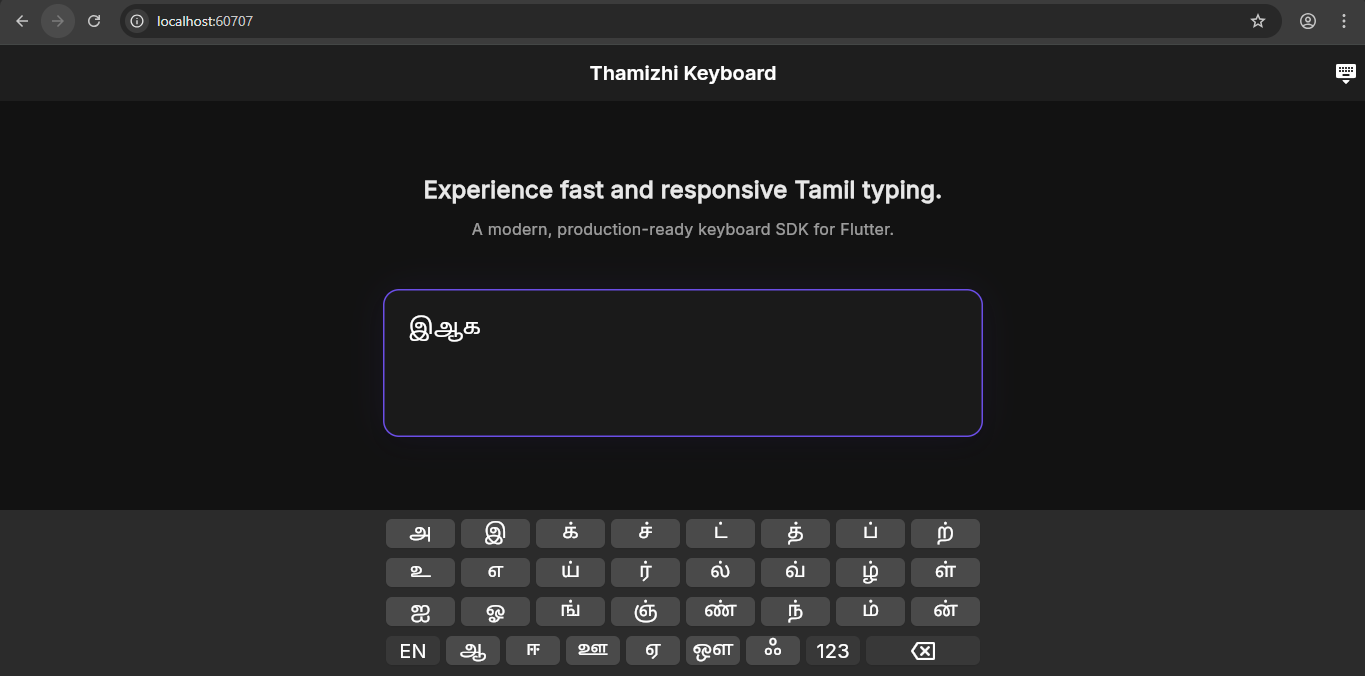
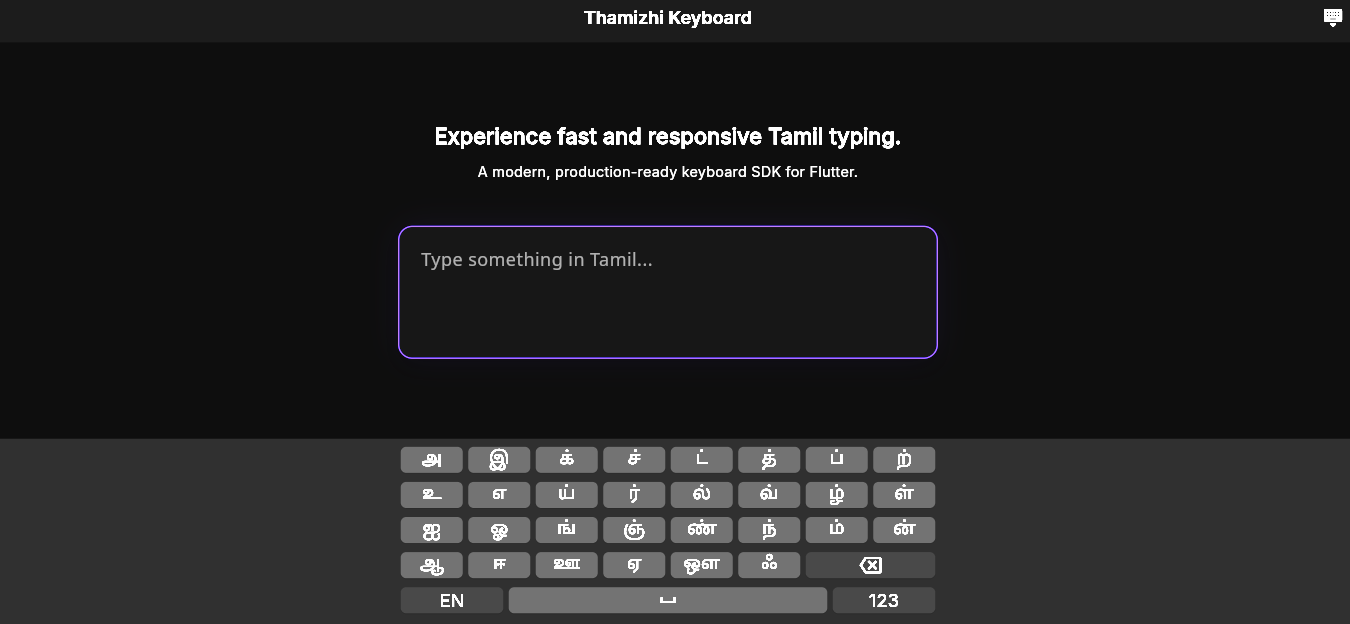
feat: Implement modular keyboard layouts with a dedicated bottom navigation row for key actions and update documentation with new screenshots.

diff --git a/lib/src/ui/layouts/tamil_layout.dart b/lib/src/ui/layouts/tamil_layout.dart
@@ -17,7 +17,8 @@ class TamilLayout extends StatelessWidget {
         _buildRow(['அ', 'இ', 'க்', 'ச்', 'ட்', 'த்', 'ப்', 'ற்']),
         _buildRow(['உ', 'எ', 'ய்', 'ர்', 'ல்', 'வ்', 'ழ்', 'ள்']),
         _buildRow(['ஐ', 'ஓ', 'ங்', 'ஞ்', 'ண்', 'ந்', 'ம்', 'ன்']),
-        _buildBottomRow(),
+        _buildActionRow(),
+        _buildNavRow(),
       ],
     );
   }
@@ -35,15 +36,10 @@ class TamilLayout extends StatelessWidget {
     );
   }
 
-  Widget _buildBottomRow() {
+  Widget _buildActionRow() {
     return Expanded(
       child: Row(
         children: [
-          KeyWidget(
-            text: 'EN',
-            isAltKey: true,
-            onTap: () => controller.switchLayout(KeyboardLayout.english),
-          ),
           KeyWidget(text: 'ஆ', onTap: () => controller.onKeyPress('ஆ')),
           KeyWidget(text: 'ஈ', onTap: () => controller.onKeyPress('ஈ')),
           KeyWidget(text: 'ஊ', onTap: () => controller.onKeyPress('ஊ')),
@@ -51,15 +47,36 @@ class TamilLayout extends StatelessWidget {
           KeyWidget(text: 'ஔ', onTap: () => controller.onKeyPress('ஔ')),
           KeyWidget(text: 'ஃ', onTap: () => controller.onKeyPress('ஃ')),
           KeyWidget(
-            text: '123',
-            isAltKey: true,
-            onTap: () => controller.switchLayout(KeyboardLayout.numbers),
-          ),
-          KeyWidget(
             icon: Icons.backspace_outlined,
             isAltKey: true,
             flex: 2,
             onTap: () => controller.onBackspace(),
+          ),
+        ],
+      ),
+    );
+  }
+
+  Widget _buildNavRow() {
+    return Expanded(
+      child: Row(
+        children: [
+          KeyWidget(
+            text: 'EN',
+            isAltKey: true,
+            flex: 2,
+            onTap: () => controller.switchLayout(KeyboardLayout.english),
+          ),
+          KeyWidget(
+            icon: Icons.space_bar,
+            flex: 6,
+            onTap: () => controller.onKeyPress(' '),
+          ),
+          KeyWidget(
+            text: '123',
+            isAltKey: true,
+            flex: 2,
+            onTap: () => controller.switchLayout(KeyboardLayout.numbers),
           ),
         ],
       ),

diff --git a/lib/src/ui/layouts/tamil_number_layout.dart b/lib/src/ui/layouts/tamil_number_layout.dart
@@ -3,18 +3,18 @@ import 'package:thamizhi_keyboard/src/state/keyboard_controller.dart';
 import 'package:thamizhi_keyboard/src/state/keyboard_state.dart';
 import 'package:thamizhi_keyboard/src/ui/components/key_widget.dart';
 
-/// A standard numeric layout.
-class NumberLayout extends StatelessWidget {
+/// A layout for Tamil numbers.
+class TamilNumberLayout extends StatelessWidget {
   final KeyboardController controller;
 
-  const NumberLayout({super.key, required this.controller});
+  const TamilNumberLayout({super.key, required this.controller});
 
   @override
   Widget build(BuildContext context) {
     return Column(
       mainAxisSize: MainAxisSize.min,
       children: [
-        _buildRow(['1', '2', '3', '4', '5', '6', '7', '8', '9', '0']),
+        _buildRow(['௧', '௨', '௩', '௪', '௫', '௬', '௭', '௮', '௯', '௦']),
         _buildRow(['-', '/', ':', ';', '(', ')', '\$', '&', '@', '"']),
         _buildActionRow(['.', ',', '?', '!', '\'']),
         _buildNavRow(),
@@ -70,21 +70,15 @@ class NumberLayout extends StatelessWidget {
             onTap: () => controller.switchLayout(KeyboardLayout.tamil),
           ),
           KeyWidget(
-            text: 'EN',
-            isAltKey: true,
-            flex: 2,
-            onTap: () => controller.switchLayout(KeyboardLayout.english),
-          ),
-          KeyWidget(
             icon: Icons.space_bar,
-            flex: 4,
+            flex: 6,
             onTap: () => controller.onKeyPress(' '),
           ),
           KeyWidget(
-            text: '௧௨௩',
+            text: '123',
             isAltKey: true,
             flex: 2,
-            onTap: () => controller.switchLayout(KeyboardLayout.tamilNumbers),
+            onTap: () => controller.switchLayout(KeyboardLayout.numbers),
           ),
         ],
       ),

diff --git a/lib/src/ui/layouts/english_layout.dart b/lib/src/ui/layouts/english_layout.dart
@@ -25,6 +25,7 @@ class EnglishLayout extends StatelessWidget {
               ['z', 'x', 'c', 'v', 'b', 'n', 'm'],
               isCaps,
             ),
+            _buildNavRow(),
           ],
         );
       },
@@ -65,27 +66,37 @@ class EnglishLayout extends StatelessWidget {
             );
           }),
           KeyWidget(
+            icon: Icons.backspace_outlined,
+            isAltKey: true,
+            flex: 2,
+            onTap: () => controller.onBackspace(),
+          ),
+        ],
+      ),
+    );
+  }
+
+  Widget _buildNavRow() {
+    return Expanded(
+      child: Row(
+        mainAxisAlignment: MainAxisAlignment.center,
+        children: [
+          KeyWidget(
             text: 'TA',
             isAltKey: true,
             flex: 2,
             onTap: () => controller.switchLayout(KeyboardLayout.tamil),
           ),
           KeyWidget(
+            icon: Icons.space_bar,
+            flex: 6,
+            onTap: () => controller.onKeyPress(' '),
+          ),
+          KeyWidget(
             text: '123',
             isAltKey: true,
             flex: 2,
             onTap: () => controller.switchLayout(KeyboardLayout.numbers),
-          ),
-          KeyWidget(
-            icon: Icons.space_bar,
-            flex: 4,
-            onTap: () => controller.onKeyPress(' '),
-          ),
-          KeyWidget(
-            icon: Icons.backspace_outlined,
-            isAltKey: true,
-            flex: 2,
-            onTap: () => controller.onBackspace(),
           ),
         ],
       ),

diff --git a/lib/src/ui/keyboard_layout.dart b/lib/src/ui/keyboard_layout.dart
@@ -4,6 +4,7 @@ import 'package:thamizhi_keyboard/src/state/keyboard_state.dart';
 import 'package:thamizhi_keyboard/src/ui/layouts/english_layout.dart';
 import 'package:thamizhi_keyboard/src/ui/layouts/number_layout.dart';
 import 'package:thamizhi_keyboard/src/ui/layouts/tamil_layout.dart';
+import 'package:thamizhi_keyboard/src/ui/layouts/tamil_number_layout.dart';
 import 'package:thamizhi_keyboard/src/ui/theme/keyboard_theme.dart';
 
 /// The main keyboard wrapper that manages responsive constraints and the active layout.
@@ -92,6 +93,8 @@ class _ThamizhiKeyboardState extends State<ThamizhiKeyboard> {
       case KeyboardLayout.numbers:
       case KeyboardLayout.symbols:
         return NumberLayout(controller: _keyboardController);
+      case KeyboardLayout.tamilNumbers:
+        return TamilNumberLayout(controller: _keyboardController);
     }
   }
 }

diff --git a/lib/src/state/keyboard_state.dart b/lib/src/state/keyboard_state.dart
@@ -1,9 +1,9 @@
-/// The distinct keyboard layouts supported.
 enum KeyboardLayout {
   tamil,
   english,
   englishCaps,
   numbers,
+  tamilNumbers,
   symbols,
 }
 

diff --git a/README.md b/README.md
@@ -11,15 +11,13 @@ A highly professional, production-grade, and responsive Tamil keyboard SDK for F
 
 ## 📸 Showcase
 
-| Mobile (Dark Mode) | Mobile (Light Mode) |
-| :---: | :---: |
-| <img src="https://github.com/neelakandanz/thamizhi_keyboard/blob/main/out/Screen2.PNG?raw=true" width="250" /> | <img src="https://github.com/neelakandanz/thamizhi_keyboard/blob/main/out/Screen4.PNG?raw=true" width="250" /> |
+| Mobile (Tamil) | Mobile (English) | Mobile (Numeric) |
+| :---: | :---: | :---: |
+| <img src="https://github.com/neelakandanz/thamizhi_keyboard/blob/main/out/Screen2.jpeg?raw=true" width="250" /> | <img src="https://github.com/neelakandanz/thamizhi_keyboard/blob/main/out/Screen3.jpeg?raw=true" width="250" /> | <img src="https://github.com/neelakandanz/thamizhi_keyboard/blob/main/out/Screen4.jpeg?raw=true" width="250" /> |
 
 | Desktop / Web / Tablet Responsive Layout |
 | :---: |
 | <img src="https://github.com/neelakandanz/thamizhi_keyboard/blob/main/out/Screen1.PNG?raw=true" width="600" /> |
-
-*(Screenshots will be updated on the repository to reflect the new dark-themed Example Application)*
 
 ---
 
@@ -73,7 +71,7 @@ Add the following to your `pubspec.yaml`:
 
 ```yaml
 dependencies:
-  thamizhi_keyboard: ^0.1.0
+  thamizhi_keyboard: ^0.1.1
 ```
 
 ### Best Practices Example

diff --git a/CHANGELOG.md b/CHANGELOG.md
@@ -1,3 +1,9 @@
+## 0.1.1
+
+### Layout Enhancements & Documentation
+* 💅 **UI Refinement**: Extracted the Language change, Space bar, and Number change keys into a dedicated bottom navigation row to prevent key squeezing on mobile devices.
+* 🖼 **Documentation**: Updated README screenshots to showcase the latest layout and dark-themed Example Application.
+
 ## 0.1.0
 
 ### Major UI Redesign & Architecture Overhaul
